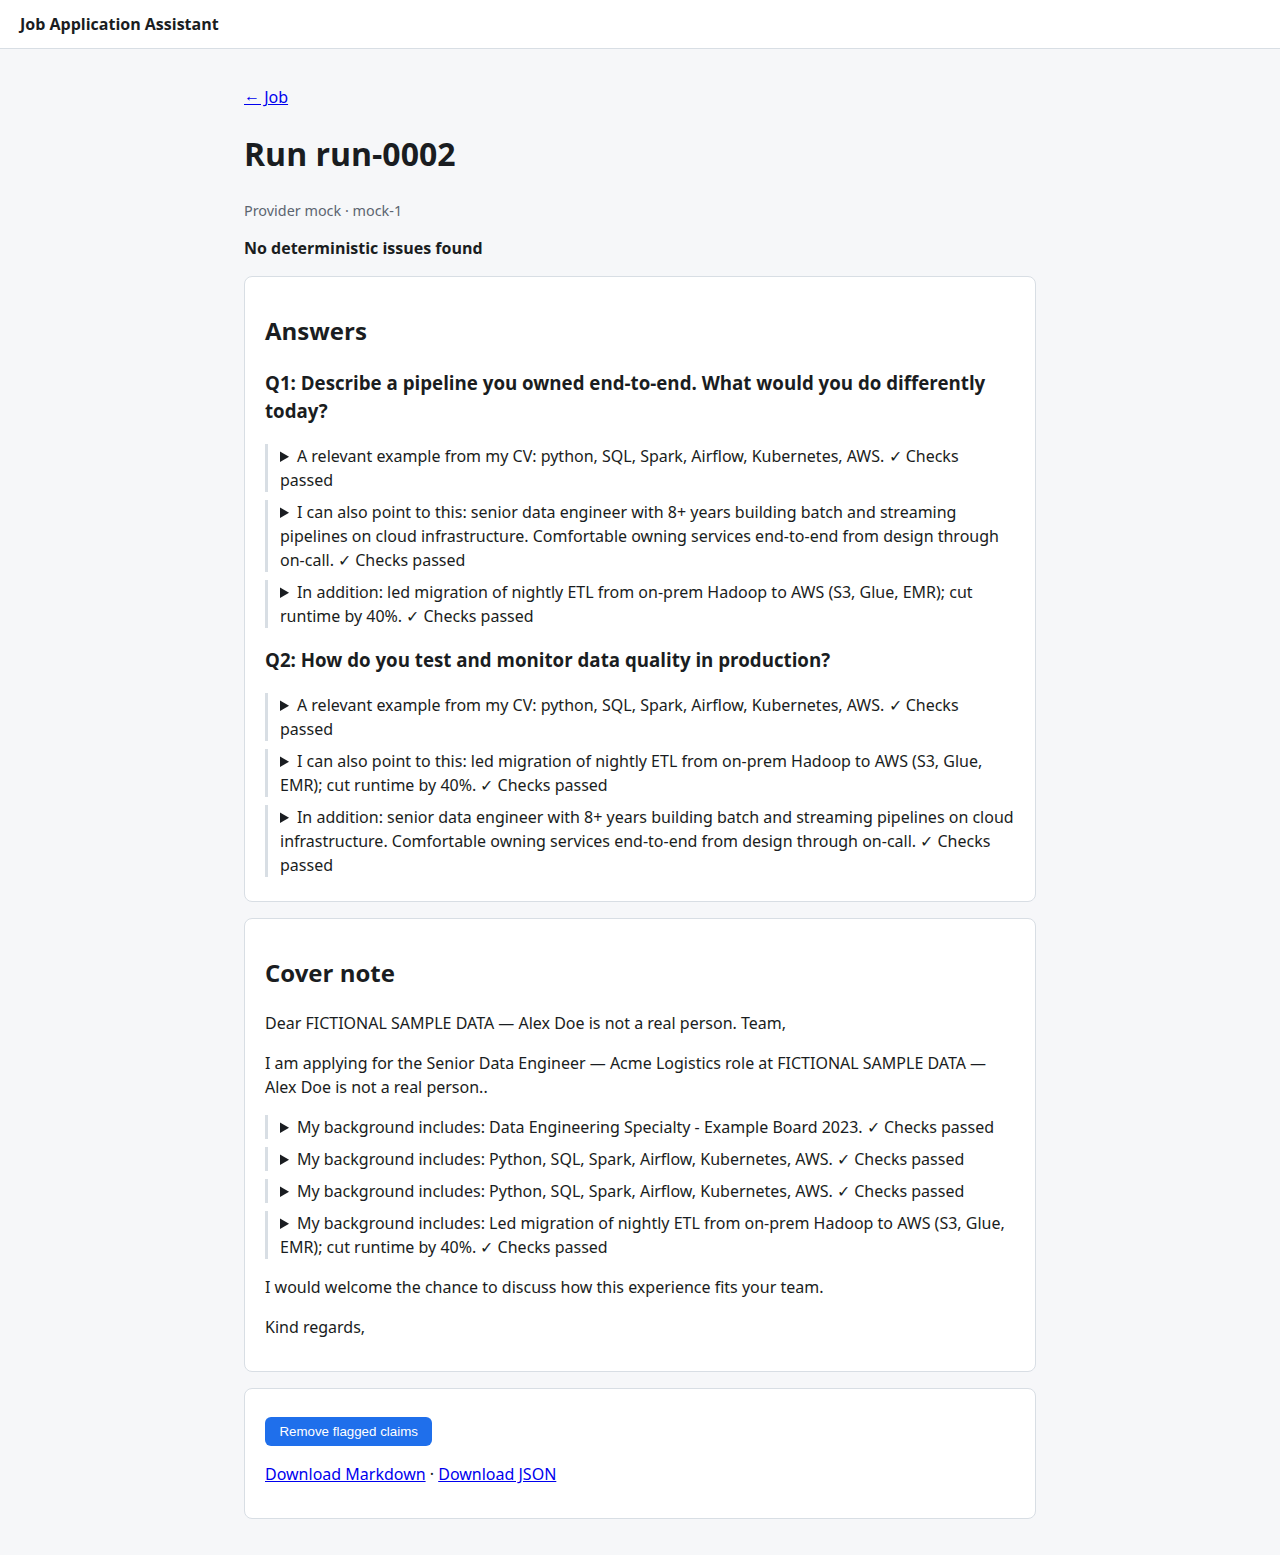
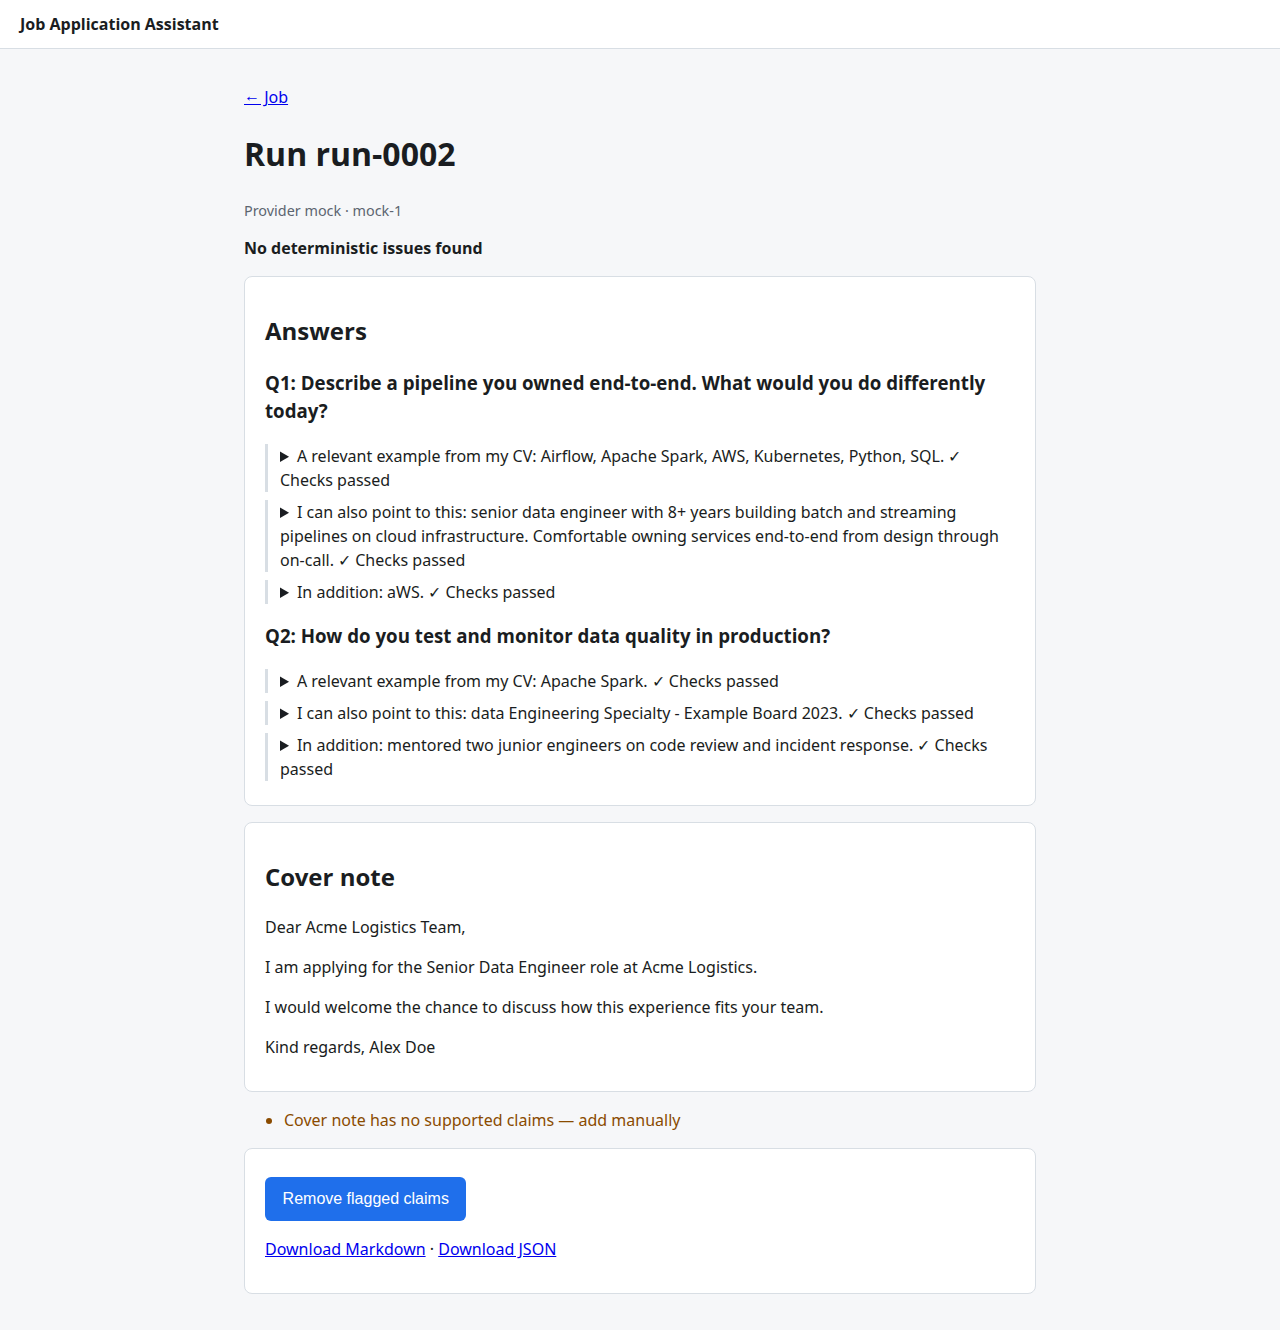
Fix CI lint and mypy on mock cover body

diff --git a/tests/unit/test_verdict.py b/tests/unit/test_verdict.py
@@ -5,3 +5,15 @@ from jaa.truth.verdict import status_from_checks
 def test_fail_is_unsupported():
     f = [CheckFailure(check="number", token="1", detail="", outcome="fail")]
     assert status_from_checks(f, judge_enabled=False, judge=None) == "unsupported"
+
+
+def test_abstain_is_not_verified():
+    f = [CheckFailure(check="duration", token="6", detail="", outcome="abstain")]
+    assert status_from_checks(f, judge_enabled=False, judge=None) == "not_verified"
+
+
+def test_judge_false_makes_unsupported():
+    from jaa.models import JudgeVerdict
+
+    judge = JudgeVerdict(sentence_id="Q1.S1", entailed=False, rationale="no")
+    assert status_from_checks([], judge_enabled=True, judge=judge) == "unsupported"

diff --git a/src/jaa/providers/mock.py b/src/jaa/providers/mock.py
@@ -86,9 +86,9 @@ class MockProvider:
                 continue
             if not _matched_terms(cover_chunk, [req_item]):
                 continue
-            body = _unique_claim_text(cover_chunk, lex, used_claims, 0)
-            if body is None:
-                continue
+            body = _unique_claim_text(cover_chunk, lex, used_claims, 0) or _format_evidence_body(
+                cover_chunk, lex
+            )
             cover_claims.append(
                 SentenceOut(
                     text=f"My background includes: {body}.",

diff --git a/scripts/make_sample_pdf.py b/scripts/make_sample_pdf.py
@@ -35,7 +35,9 @@ def main() -> None:
         }
     )
     font_ref = writer._add_object(font)
-    resources = DictionaryObject({NameObject("/Font"): DictionaryObject({NameObject("/F1"): font_ref})})
+    resources = DictionaryObject(
+        {NameObject("/Font"): DictionaryObject({NameObject("/F1"): font_ref})}
+    )
     stream = DecodedStreamObject()
     stream.set_data(_CONTENT)
     stream[NameObject("/Length")] = NumberObject(len(_CONTENT))

diff --git a/tests/unit/test_validate_invariants.py b/tests/unit/test_validate_invariants.py
@@ -1,7 +1,6 @@
 import pytest
 
-from jaa.models import AnswerOut, JudgeOut, JudgeVerdict, LLMDraftOut, SentenceOut
-from jaa.models import Question
+from jaa.models import AnswerOut, JudgeOut, JudgeVerdict, LLMDraftOut, Question, SentenceOut
 from jaa.privacy.outbound import JudgeItem, OutboundDraft, OutboundEvidence, OutboundJudge
 from jaa.providers.validate import DraftInvariantError, validate_draft, validate_judge
 

diff --git a/tests/unit/test_deterministic.py b/tests/unit/test_deterministic.py
@@ -2,8 +2,6 @@
 
 from datetime import date
 
-import pytest
-
 from jaa.models import Chunk, Sentence
 from jaa.truth.deterministic import CheckContext, check_sentence
 from jaa.truth.lexicon import SkillLexicon
